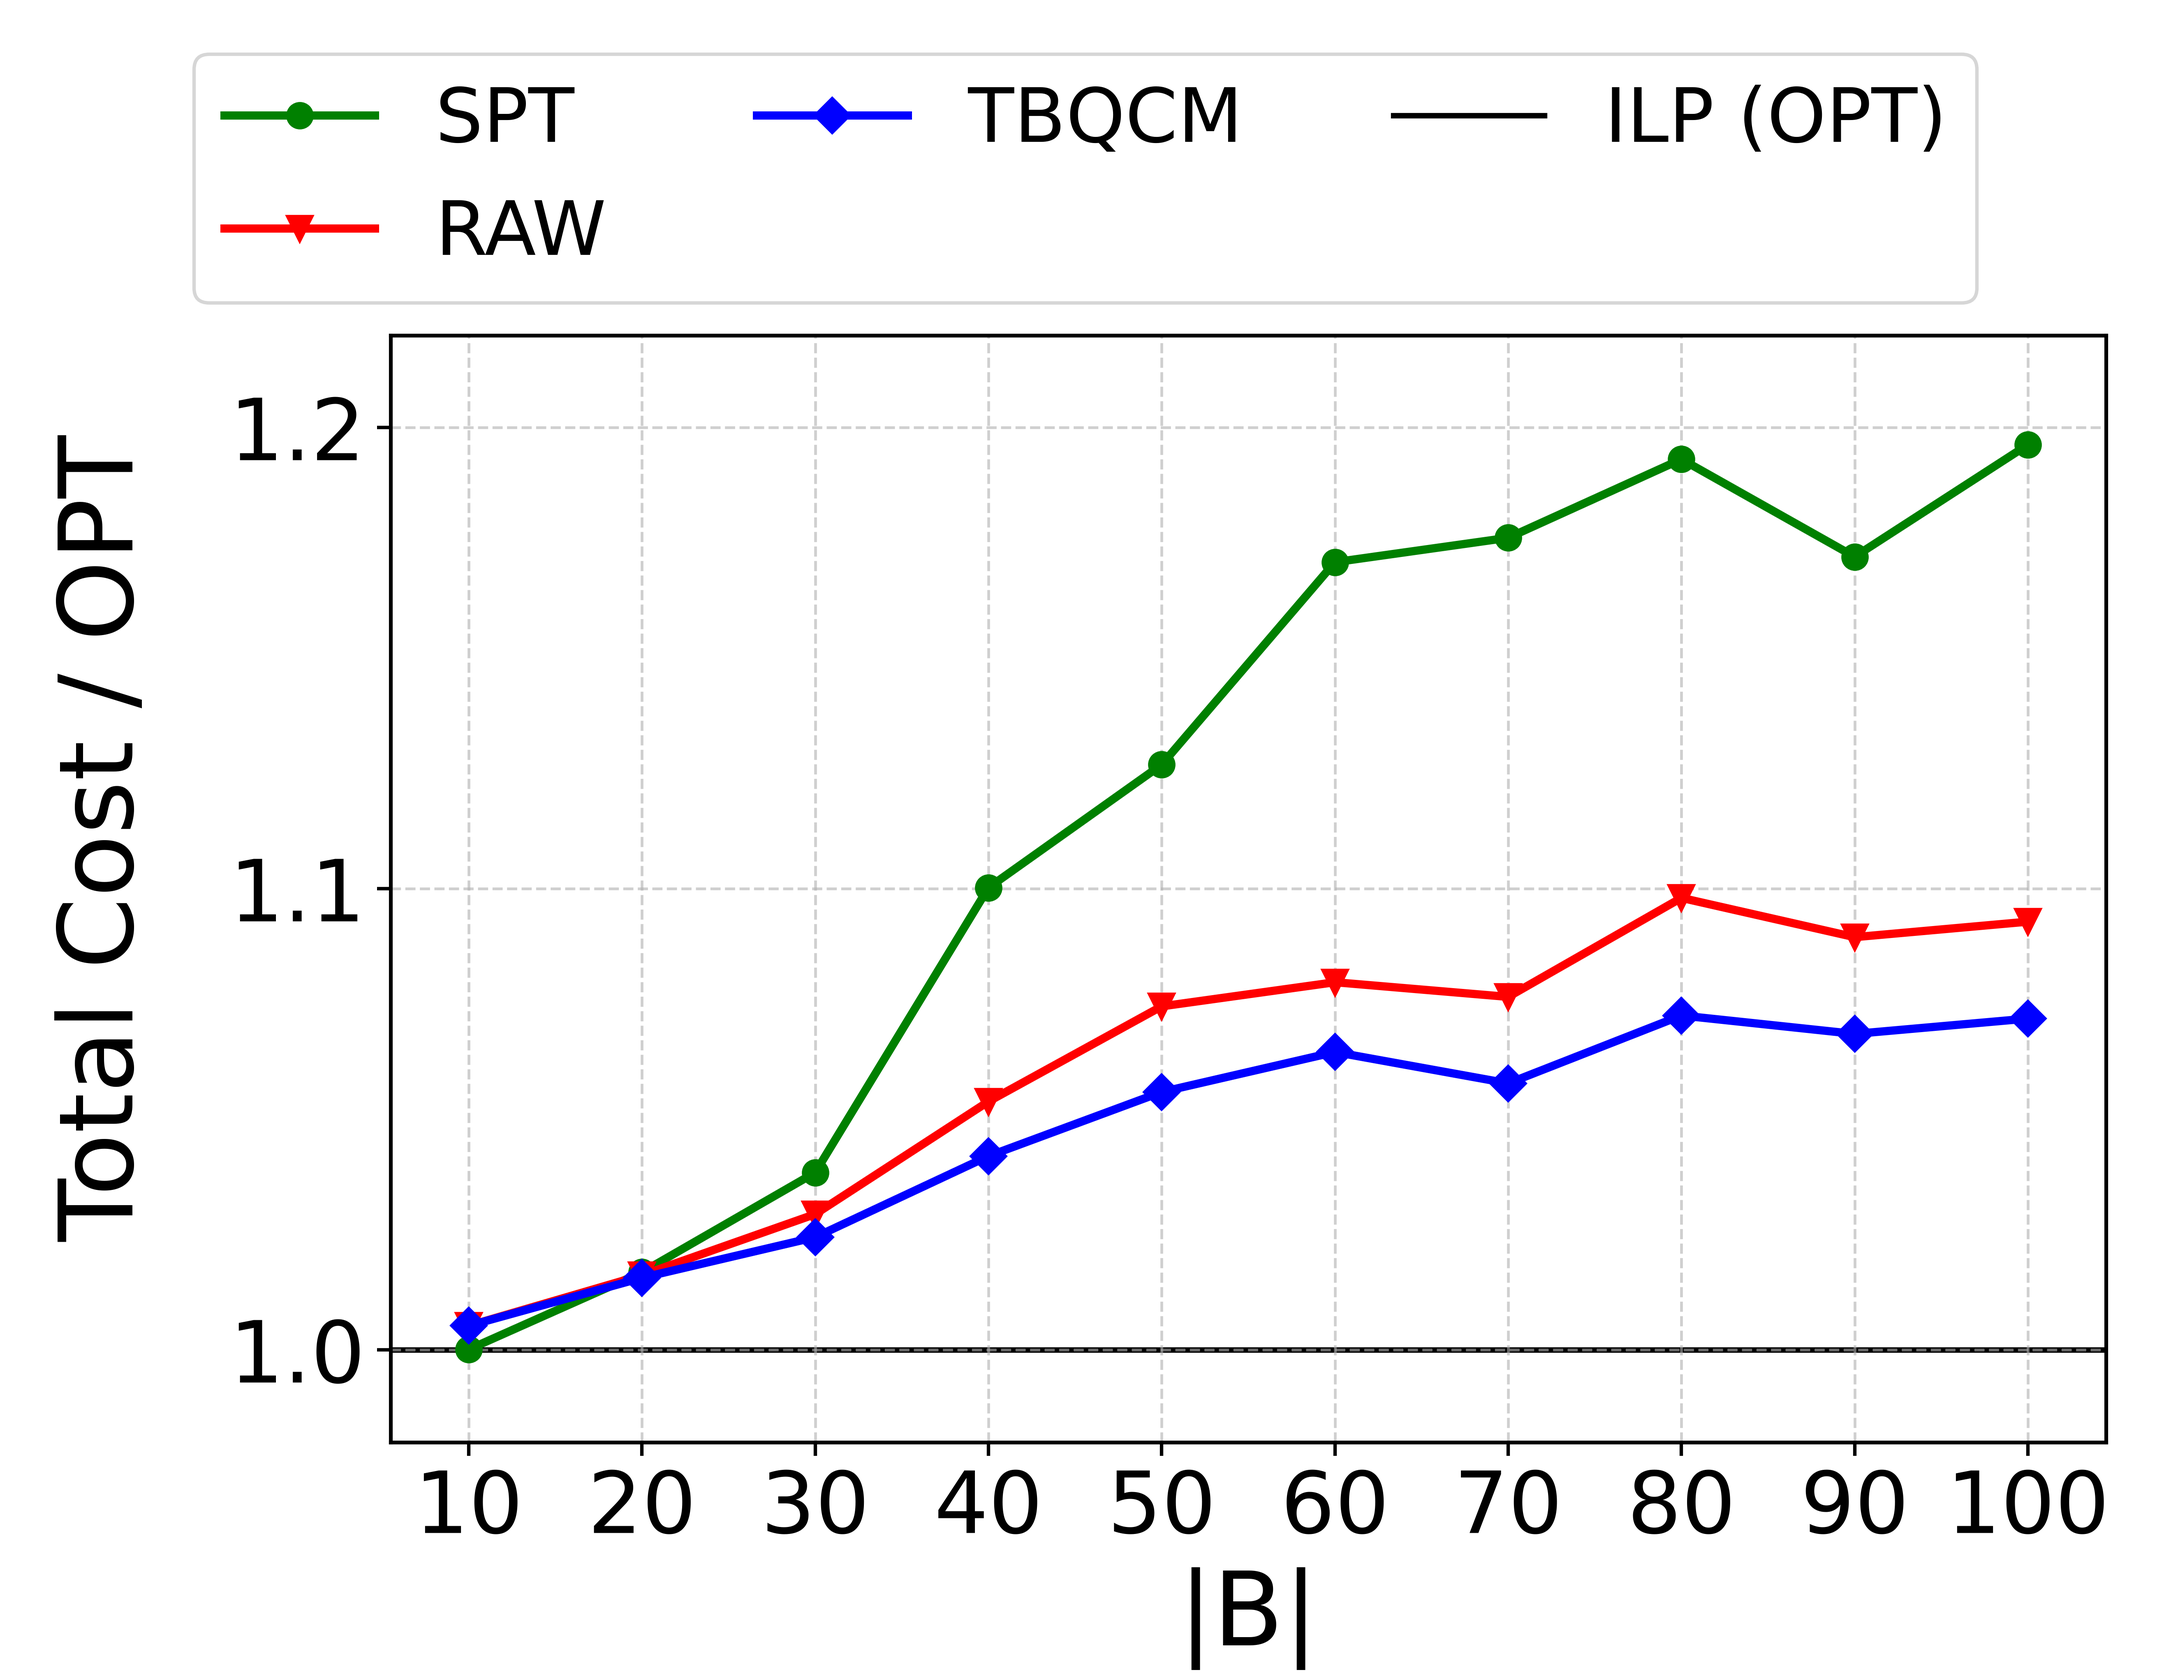
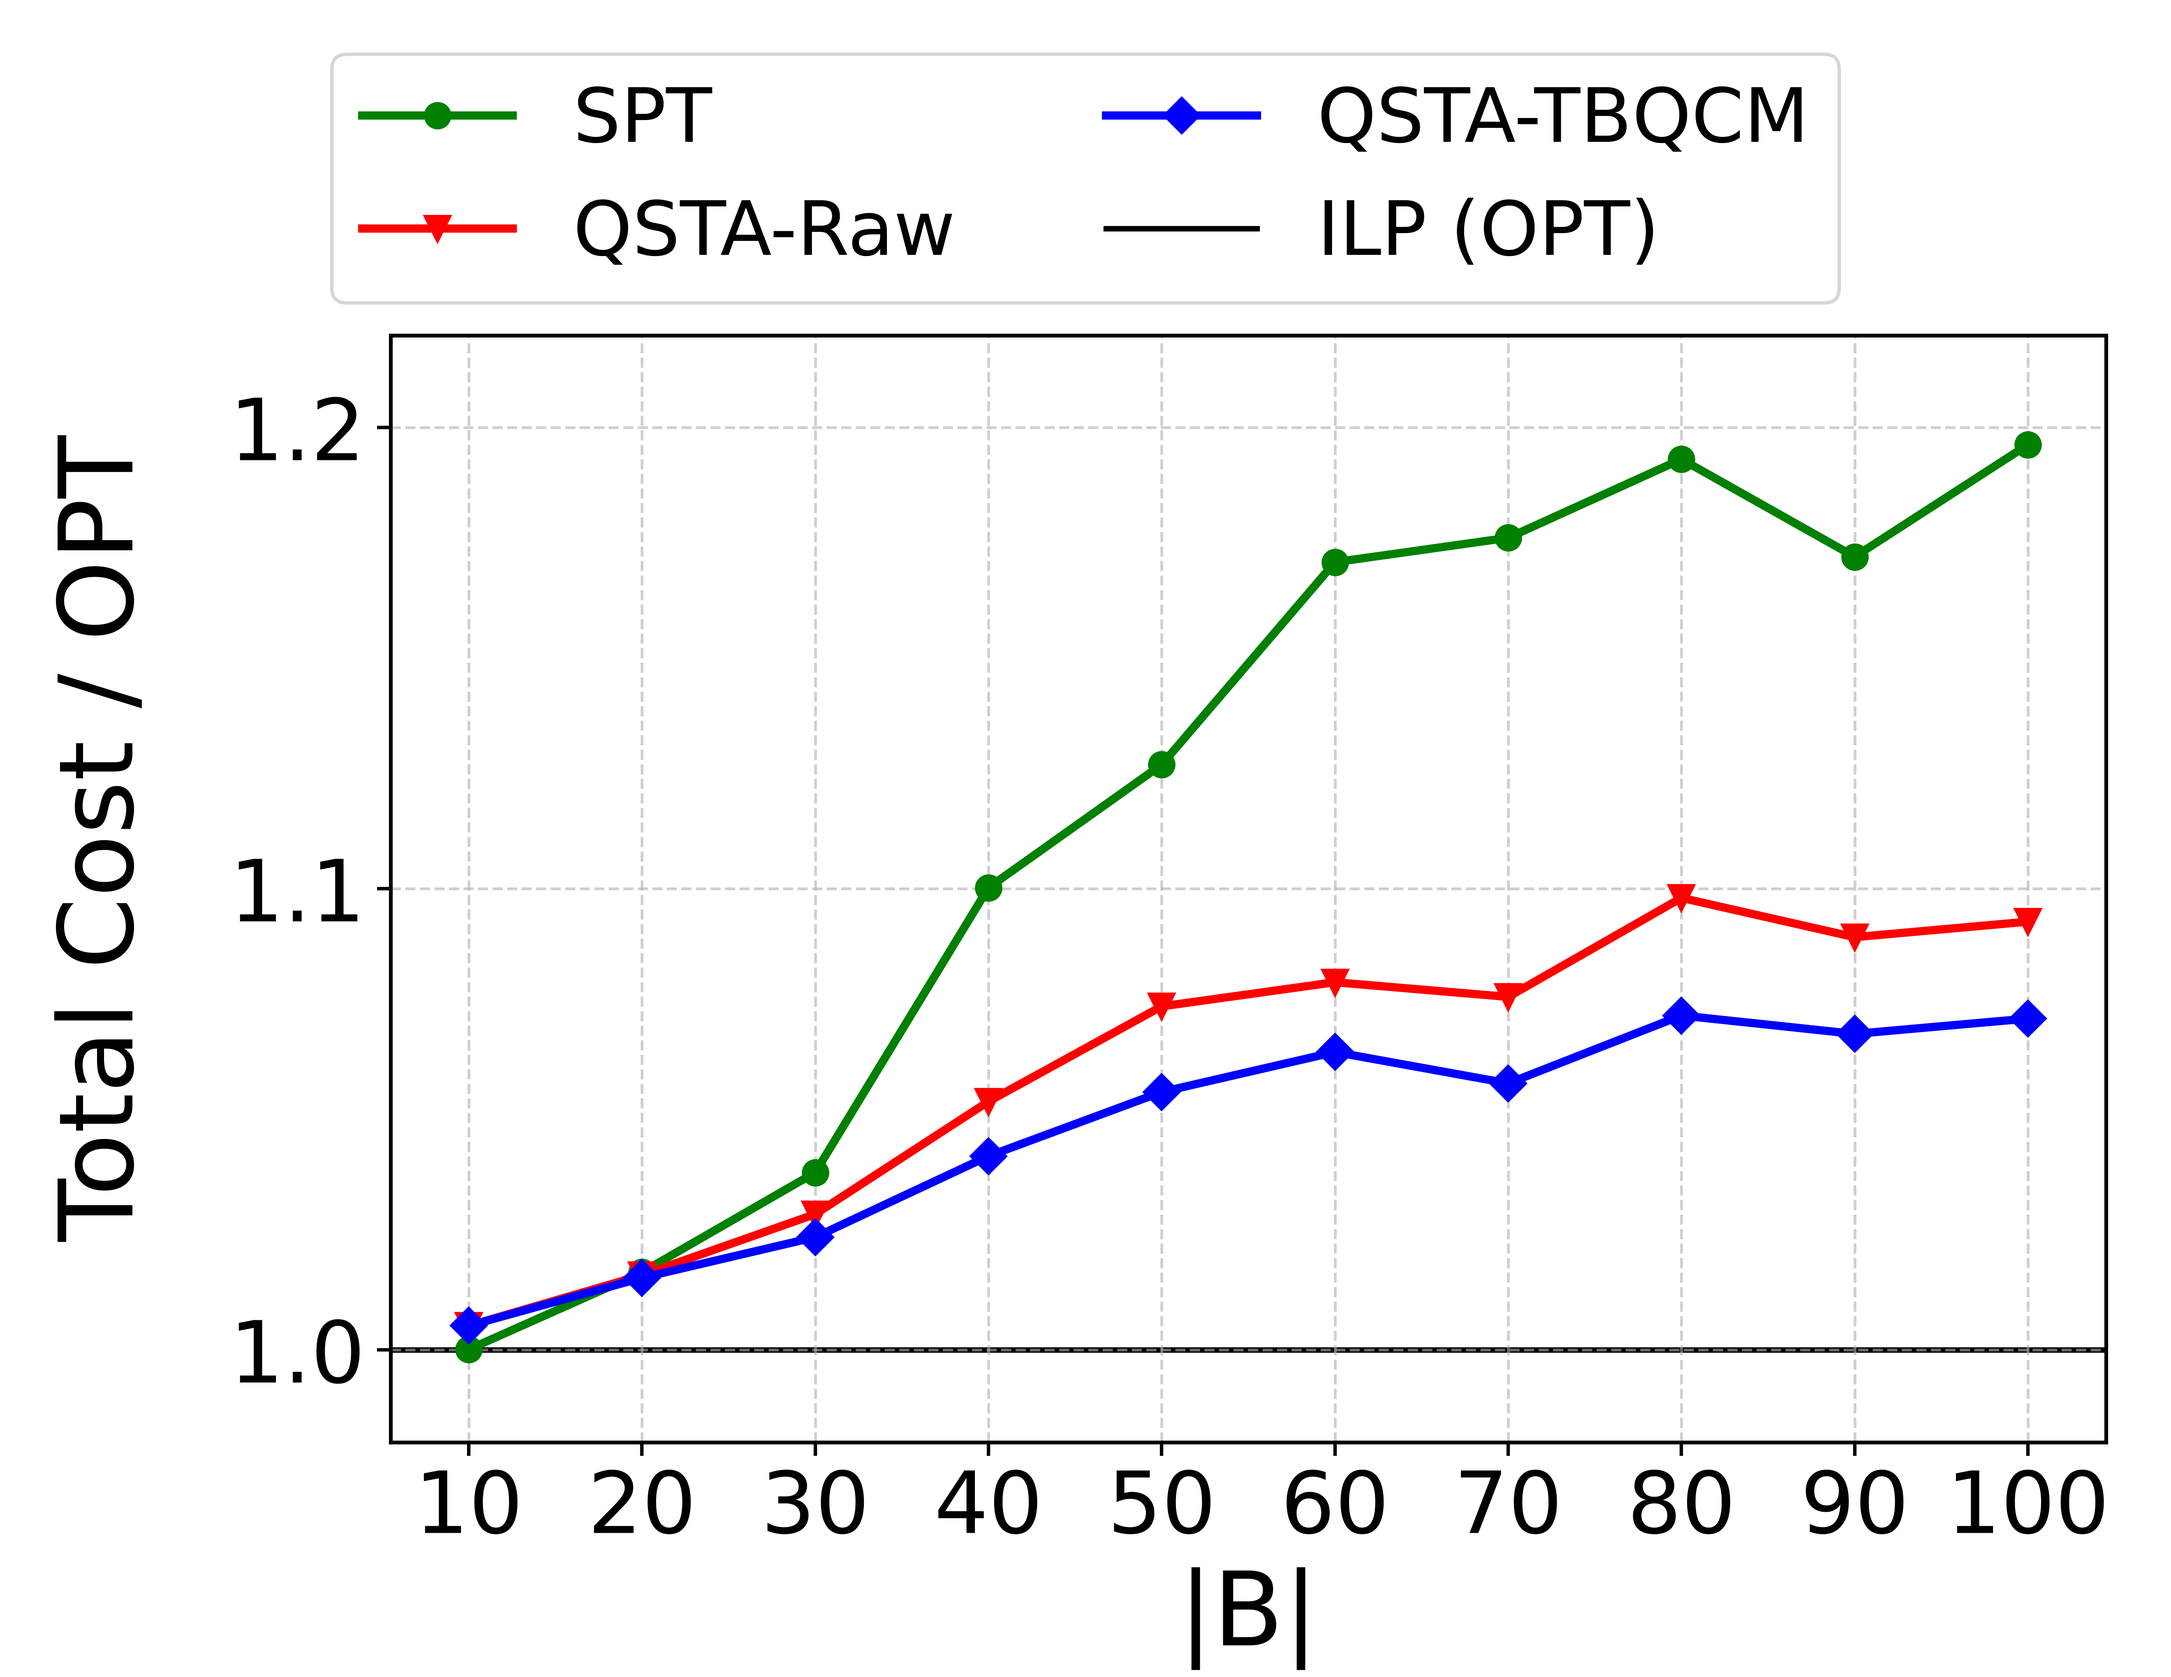
fix: ilp qc sweep fig label

diff --git a/ilp/plot_qc_strict.py b/ilp/plot_qc_strict.py
@@ -1,0 +1,81 @@
+"""qc sweep（|B| 掃描）的 strict cost / OPT 圖，樣式沿用 plot_result.py，y 軸只畫到 --y-max。
+
+  python -m ilp.plot_qc_strict ilp/results/qc_sweep_d30_merged.csv --y-max 1.5
+
+版面（字體、畫布、圖例與 y 軸標籤位置、線型標記、x 軸刻度對應資料點）全部取自 plot_result；
+baseline 的顏色/標記同 plot_result，圖上的 QSTA-TBQCM（CSV 的 TBQCM）用 QSTA 的藍色菱形，QSTA-Raw（CSV 的 RAW）另用紅色。
+不畫 error bar，只畫各 |B| 的平均值。ILP 只畫 y = 1 的基準線。平均值落在 y-max 以內才畫的方法才會出現在圖上與圖例中。
+"""
+from __future__ import annotations
+
+import argparse
+import os
+import sys
+
+sys.path.insert(0, os.path.dirname(os.path.dirname(os.path.abspath(__file__))))
+
+import matplotlib.pyplot as plt  # noqa: E402
+import pandas as pd  # noqa: E402
+from matplotlib.ticker import MultipleLocator  # noqa: E402
+
+import plot_result as pr  # noqa: E402
+
+pr.STYLES["QSTA-TBQCM"] = dict(pr.STYLES["QSTA"])
+pr.STYLES["QSTA-Raw"] = {"color": "red", "marker": "v", "linestyle": "-"}
+METHODS = ["SPT", "CLEA", "DMST", "KMB", "MFCS", "RAW", "TBQCM"]
+DISPLAY = {"RAW": "QSTA-Raw", "TBQCM": "QSTA-TBQCM"}  # CSV 的 method 名稱 -> 圖上的顯示名稱
+X_COL, X_LABEL = "num_B", "|B|"
+Y_LABEL = "Total Cost / OPT"
+
+
+def build_series(df: pd.DataFrame) -> dict:
+    df = df[df.opt.notna()].copy()
+    df["ratio"] = df["cost_strict"] / df["opt"]
+    series = {}
+    for m in METHODS:
+        g = df[df.method == m].groupby(X_COL).ratio.agg(["mean", "std"]).fillna(0).reset_index()
+        if g.empty:
+            continue
+        series[DISPLAY.get(m, m)] = g.rename(columns={"mean": "ratio", "std": "ratio_std"})
+    return series
+
+
+def main(argv=None) -> None:
+    ap = argparse.ArgumentParser()
+    ap.add_argument("csv", nargs="+")
+    ap.add_argument("--y-max", type=float, default=1.5)
+    ap.add_argument("--y-min", type=float, default=0.9)
+    ap.add_argument("--y-step", type=float, default=0.1)
+    ap.add_argument("--x-min", type=float, default=None)
+    ap.add_argument("--x-max", type=float, default=None)
+    ap.add_argument("--out", default=None, help="輸出 png 路徑（同名 pdf 一併輸出）")
+    a = ap.parse_args(argv)
+
+    df = pd.concat([pd.read_csv(p) for p in a.csv], ignore_index=True)
+    df = pr.filter_x_range(df, X_COL, a.x_min, a.x_max)
+    series = {m: d for m, d in build_series(df).items() if d["ratio"].min() <= a.y_max}
+
+    fig, ax = plt.subplots(figsize=(pr.FIG_WIDTH, pr.FIG_HEIGHT))
+    for m, d in series.items():
+        pr._draw_series(ax, d, m, "ratio", X_COL, has_std=False)
+    ax.axhline(1.0, color="black", lw=1.6, zorder=1, label="ILP (OPT)")
+
+    ax.set_xlabel(X_LABEL)
+    ax.grid(True, linestyle="--", alpha=0.6)
+    pr._apply_x_ticks(ax, series, X_COL, None)
+    ax.set_ylim(a.y_min, a.y_max)
+    ax.yaxis.set_major_locator(MultipleLocator(a.y_step))
+
+    out = a.out or os.path.splitext(a.csv[0])[0] + "_strict_ratio.png"
+    fig.subplots_adjust(**pr.LAYOUT)
+    fig.supylabel(Y_LABEL, x=pr.YLABEL_X, fontsize=plt.rcParams["axes.labelsize"])
+    handles, labels = ax.get_legend_handles_labels()
+    fig.legend(handles, labels, loc="upper center", bbox_to_anchor=(0.5, pr.LEGEND_Y), ncol=2, frameon=True)
+    fig.savefig(out, dpi=pr.PNG_DPI)
+    fig.savefig(os.path.splitext(out)[0] + ".pdf")
+    print("saved", out)
+    print("methods:", ", ".join(series))
+
+
+if __name__ == "__main__":
+    main()
